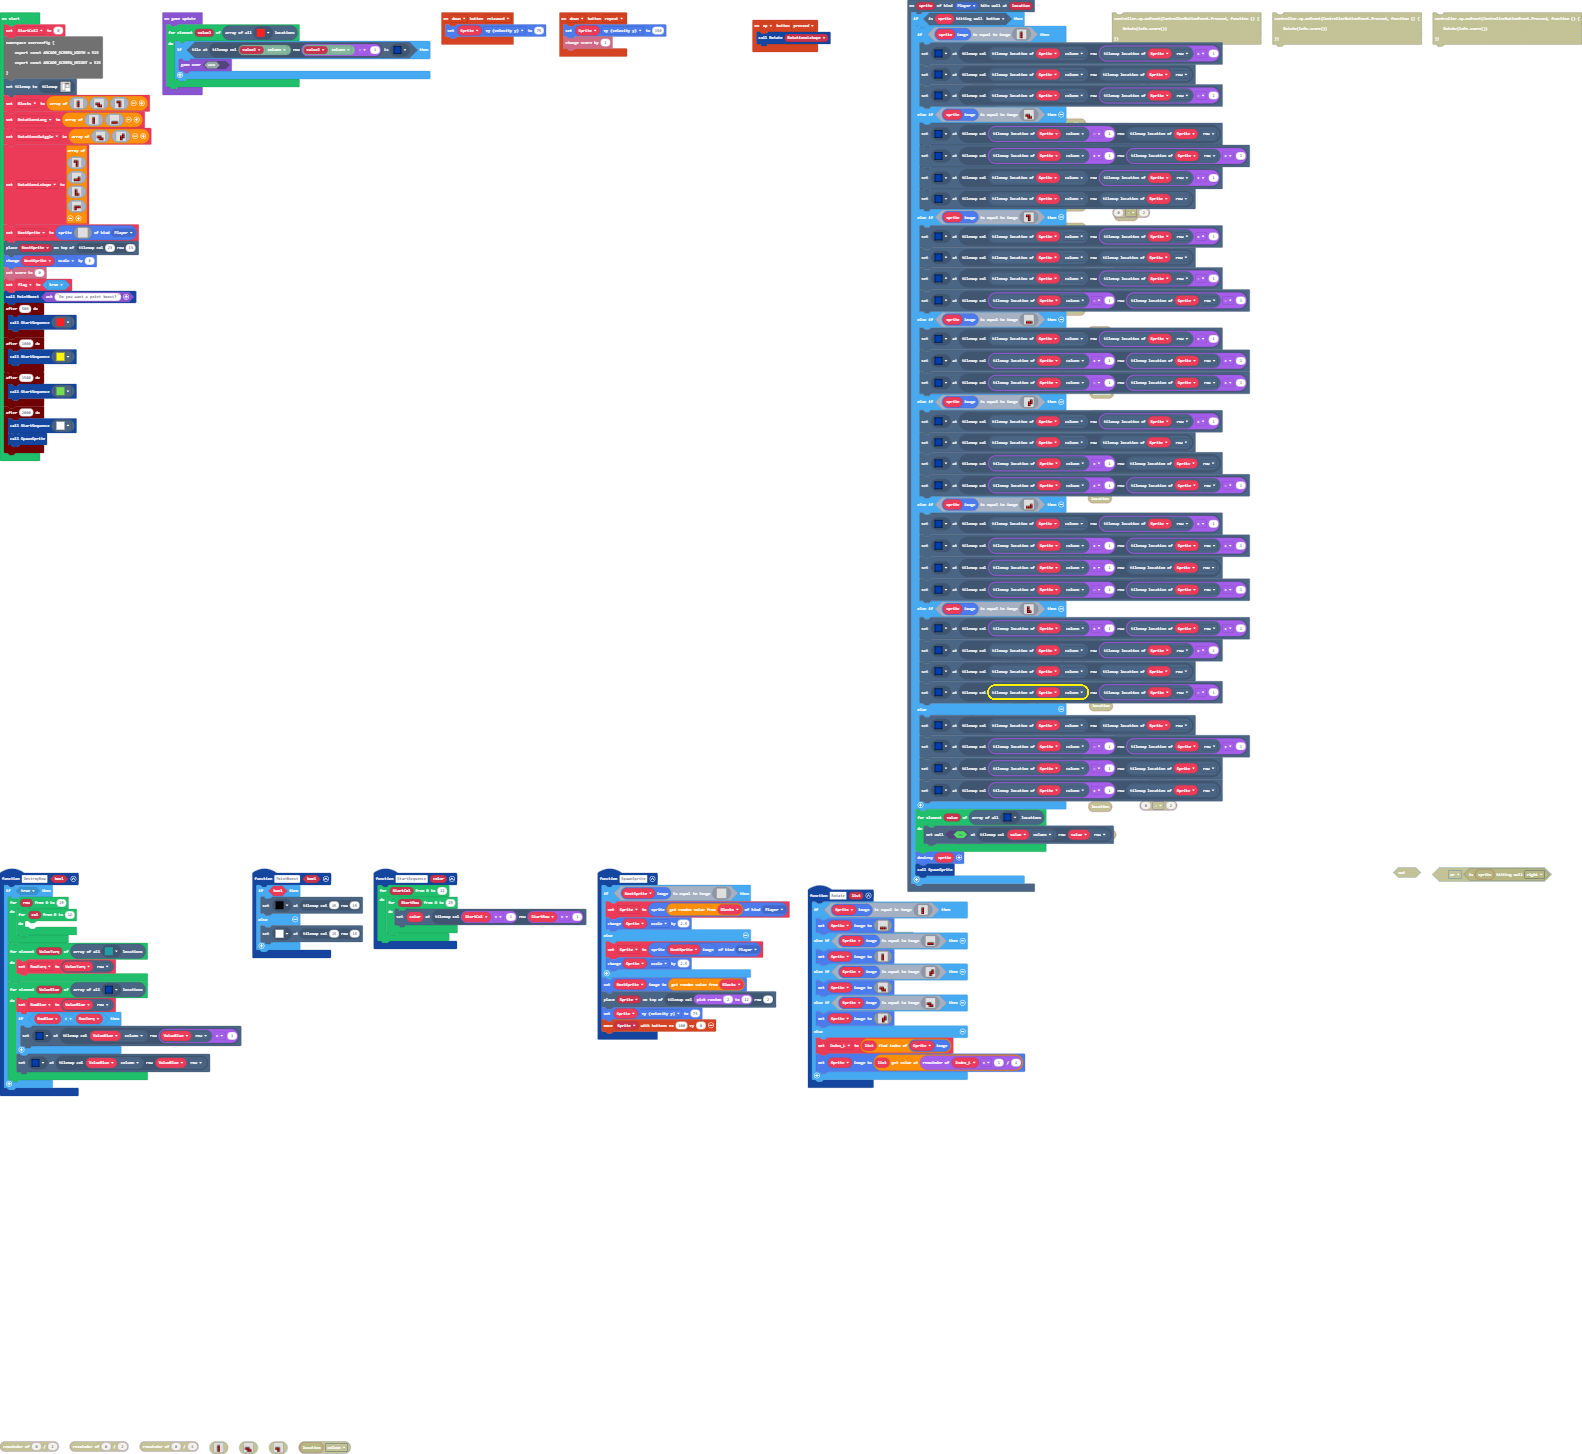
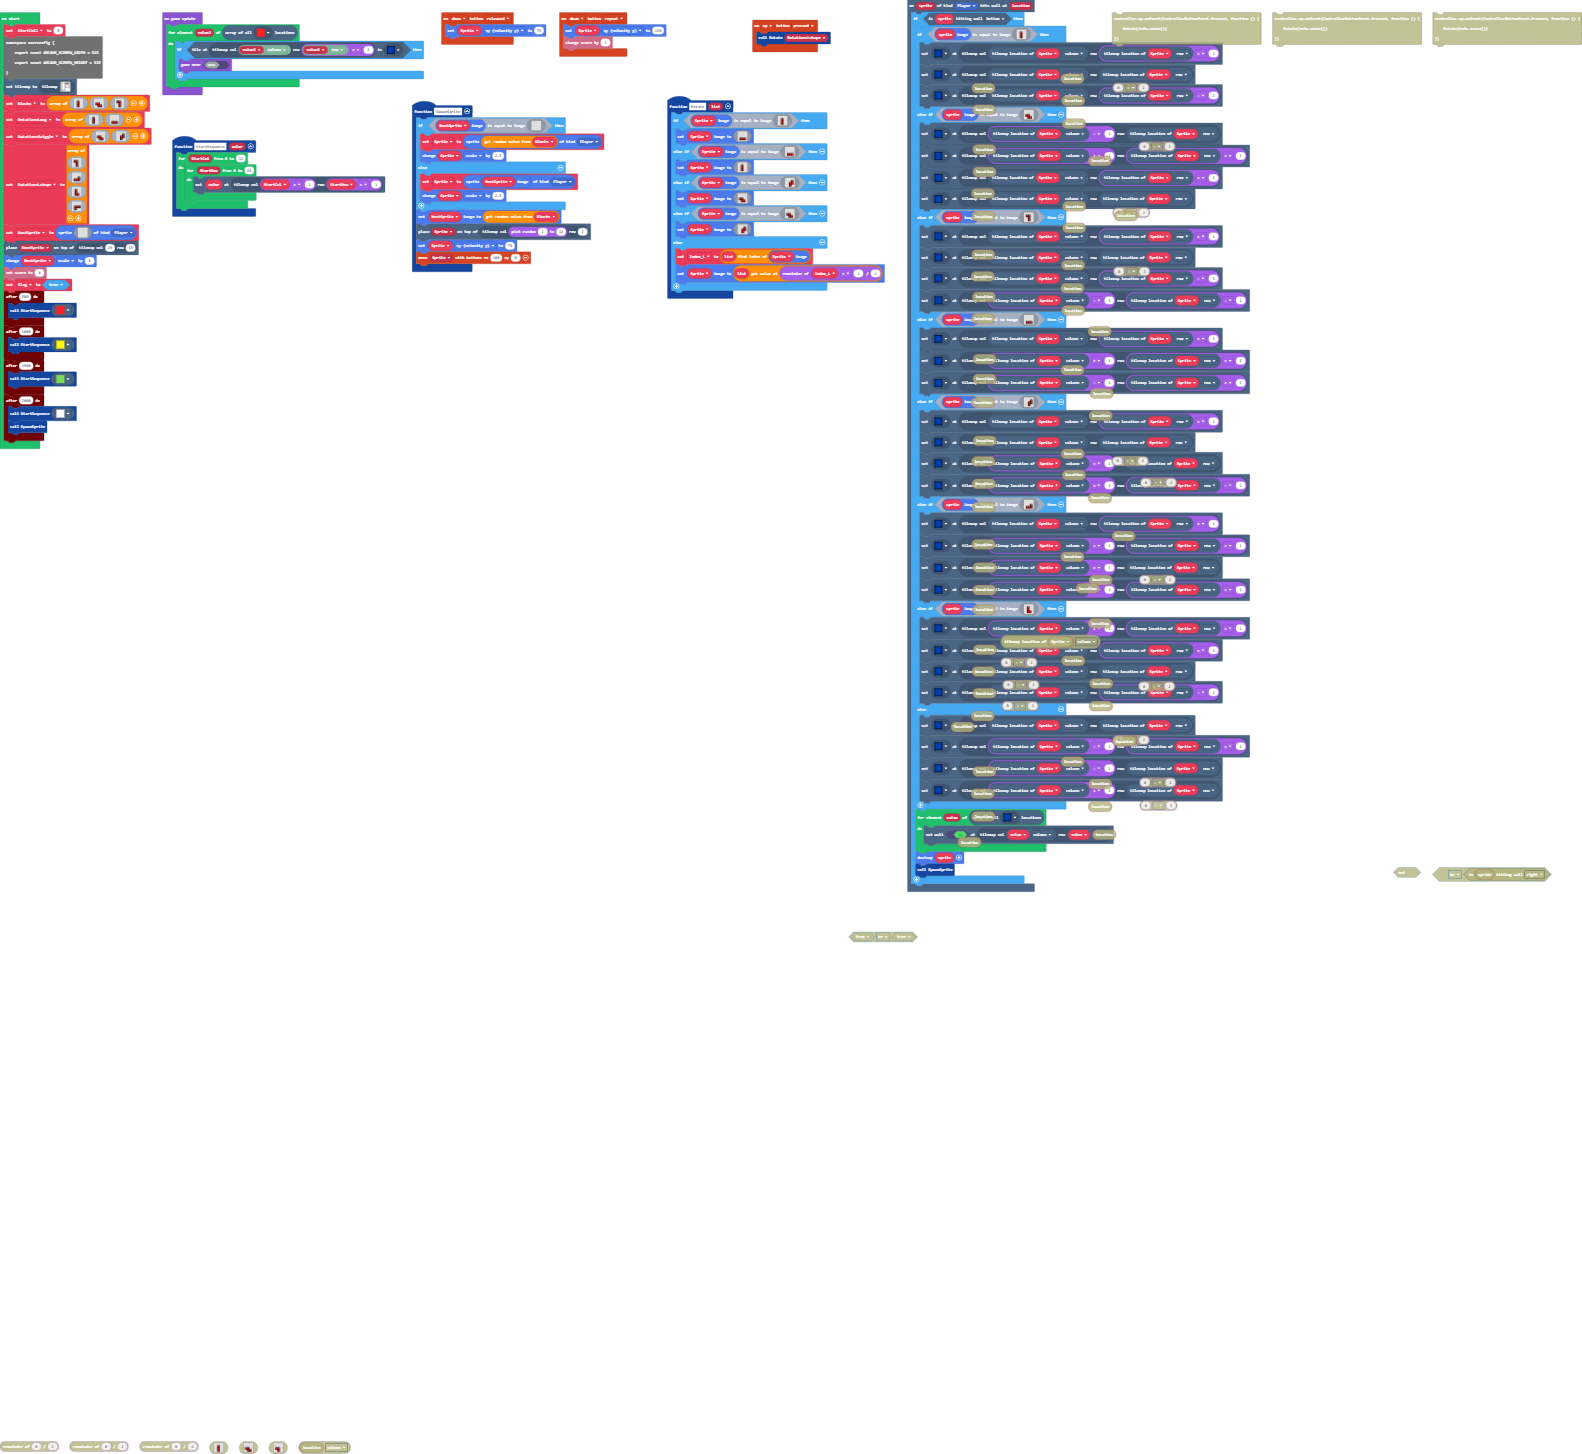
Update main.blocks, main.ts

diff --git a/main.ts b/main.ts
@@ -201,32 +201,6 @@ function SpawnSprite () {
     Sprite2.vy = 75
     controller.moveSprite(Sprite2, 100, 0)
 }
-function DestroyRow (bool: boolean) {
-    if (true) {
-        for (let row = 0; row <= 29; row++) {
-            for (let col = 0; col <= 12; col++) {
-            	
-            }
-        }
-        for (let ValueTurq of tiles.getTilesByType(assets.tile`myTile6`)) {
-            RowTurq = ValueTurq.row
-        }
-        for (let ValueBlue of tiles.getTilesByType(assets.tile`myTile3`)) {
-            RowBlue = ValueBlue.row
-            if (RowBlue < RowTurq) {
-                tiles.setTileAt(tiles.getTileLocation(ValueBlue.column, ValueBlue.row + 1), assets.tile`myTile3`)
-            }
-            tiles.setTileAt(tiles.getTileLocation(ValueBlue.column, ValueBlue.row), assets.tile`myTile3`)
-        }
-    }
-}
-function PointBoost (bool: boolean) {
-    if (bool) {
-        tiles.setTileAt(tiles.getTileLocation(15, 15), assets.tile`myTile0`)
-    } else {
-        tiles.setTileAt(tiles.getTileLocation(15, 15), assets.tile`myTile1`)
-    }
-}
 controller.down.onEvent(ControllerButtonEvent.Repeated, function () {
     Sprite2.vy = 150
     info.changeScoreBy(1)
@@ -389,8 +363,6 @@ function Rotate (list: Image[]) {
     }
 }
 let Index_L = 0
-let RowBlue = 0
-let RowTurq = 0
 let Sprite2: Sprite = null
 let NextSprite: Sprite = null
 let RotationsLshape: Image[] = []
@@ -619,7 +591,6 @@ tiles.placeOnTile(NextSprite, tiles.getTileLocation(23, 13))
 NextSprite.scale += 8
 info.setScore(0)
 let flag = true
-PointBoost(game.ask("Do you want a point boost?"))
 timer.after(500, function () {
     StartSequence(assets.tile`myTile`)
 })
@@ -635,7 +606,7 @@ timer.after(2000, function () {
 })
 game.onUpdate(function () {
     for (let value2 of tiles.getTilesByType(assets.tile`myTile`)) {
-        if (tiles.tileAtLocationEquals(tiles.getTileLocation(tiles.locationXY(value2, tiles.XY.column), tiles.locationXY(value2, tiles.XY.column) - 1), assets.tile`myTile3`)) {
+        if (tiles.tileAtLocationEquals(tiles.getTileLocation(tiles.locationXY(value2, tiles.XY.column), tiles.locationXY(value2, tiles.XY.row) + 1), assets.tile`myTile3`)) {
             game.gameOver(false)
         }
     }
